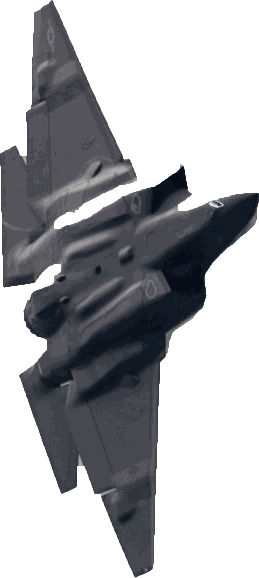
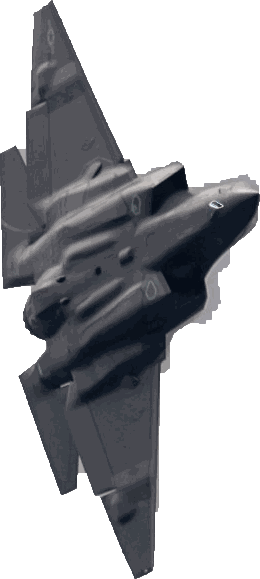
Fix the jet cutout clipping the sunlit upper surfaces
The v1 mask thresholded on darkness relative to the fitted sky, which
cut away the parts of the airframe catching the light: the fuselage
spine, the right wing's leading edge and the top of the nose all sit
close to sky luminance and were dropped. About 8% of the aircraft was
missing.

Replaced with hysteresis segmentation. A seed of confidently dark
pixels grows into weaker ones connected to it, so attached bright
panels are kept while isolated noise at the same level is rejected.
The weak threshold is ~10 sigma off the fitted sky, so sky never
qualifies. Result is one connected component covering the whole
airframe.

Claude-Session: https://claude.ai/code/session_019ptHzEZrWzXCj7BS4hoJJm

diff --git a/index.html b/index.html
@@ -165,7 +165,7 @@
     <div class="hero-jet" aria-hidden="true">
       <picture>
         <source srcset="images/jet.webp" type="image/webp">
-        <img src="images/jet.png" alt="" width="259" height="578"
+        <img src="images/jet.png" alt="" width="260" height="579"
              decoding="async" fetchpriority="low">
       </picture>
     </div>
